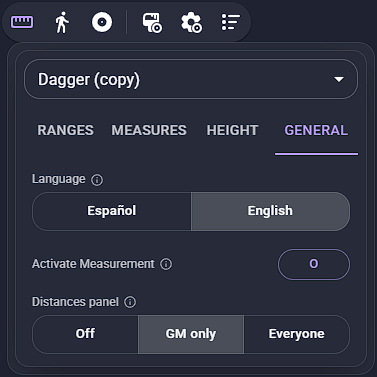
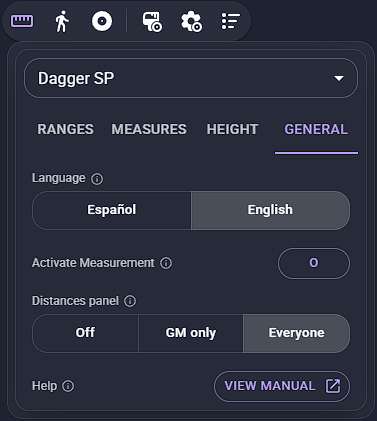
Help button in the General tab opens the README (1.2.1)

diff --git a/src/settings/GeneralTab.tsx b/src/settings/GeneralTab.tsx
@@ -1,4 +1,6 @@
+import Button from "@mui/material/Button";
 import Stack from "@mui/material/Stack";
+import OpenInNewRounded from "@mui/icons-material/OpenInNewRounded";
 import { FieldLabel } from "./FieldLabel";
 import { HotkeyRecorder } from "./HotkeyRecorder";
 import { ChoiceGroup, SECTION_GAP } from "./controls";
@@ -7,7 +9,9 @@ import { useTranslation } from "../i18n/useTranslation";
 import type { Language } from "../i18n/language";
 import { groundHotkey, type DistancePanelAccess, type GlobalSettings } from "./globalSettings";
 
-/** Room-wide basics: language, the tool's own shortcut, and who gets the Distancias panel. */
+const README_URL = "https://github.com/nachoijp/Rising-Ranges#readme";
+
+/** Room-wide basics: language, the tool's own shortcut, who gets the Distancias panel, and a way back to the manual. */
 export function GeneralTab({
   settings,
   onChangeSettings,
@@ -58,6 +62,25 @@ export function GeneralTab({
           { value: "everyone", label: t("settings.global.distancePanelEveryone") },
         ]}
       />
+
+      <Stack direction="row" alignItems="center" gap={1} sx={{ px: 1 }}>
+        <Stack sx={{ flexGrow: 1 }}>
+          <FieldLabel id="help-label" tooltip={t("settings.general.helpTooltip")}>
+            {t("settings.general.help")}
+          </FieldLabel>
+        </Stack>
+        <Button
+          variant="outlined"
+          size="small"
+          href={README_URL}
+          target="_blank"
+          rel="noopener noreferrer"
+          endIcon={<OpenInNewRounded fontSize="small" />}
+          aria-describedby="help-label"
+        >
+          {t("settings.general.helpOpen")}
+        </Button>
+      </Stack>
     </Stack>
   );
 }

diff --git a/src/i18n/strings/en.ts b/src/i18n/strings/en.ts
@@ -103,6 +103,9 @@ const en: Record<TranslationKey, string> = {
   "settings.global.distancePanelOff": "Off",
   "settings.global.distancePanelGm": "GM only",
   "settings.global.distancePanelEveryone": "Everyone",
+  "settings.general.help": "Help",
+  "settings.general.helpTooltip": "Opens the Rising Ranges manual (the README on GitHub) in a new tab.",
+  "settings.general.helpOpen": "View manual",
 
   "settings.tab.mapa": "Measures",
   "settings.tab.altura": "Height",

diff --git a/src/i18n/strings/es.ts b/src/i18n/strings/es.ts
@@ -100,6 +100,9 @@ const es = {
   "settings.global.distancePanelOff": "Apagado",
   "settings.global.distancePanelGm": "Solo GM",
   "settings.global.distancePanelEveryone": "Todos",
+  "settings.general.help": "Ayuda",
+  "settings.general.helpTooltip": "Abre el manual de Rising Ranges (el README en GitHub) en una pestaña nueva.",
+  "settings.general.helpOpen": "Ver manual",
 
   "settings.tab.mapa": "Medidas",
   "settings.tab.altura": "Altura",

diff --git a/README.md b/README.md
@@ -62,7 +62,7 @@ Pick or select a token to list every other one with its Range and its horizontal
 
 ![General settings](docs/screenshots/general-tab.png)
 
-The room's language, the key that activates Measurement, and who gets the Distances panel. Every setting applies right away — no reload needed — and their defaults keep the extension looking the way it always has until you change them.
+The room's language, the key that activates Measurement, who gets the Distances panel, and a Help button that opens this manual. Every setting applies right away — no reload needed — and their defaults keep the extension looking the way it always has until you change them.
 
 ## Color-blind themes
 

diff --git a/docs/store.md b/docs/store.md
@@ -86,7 +86,8 @@ handle.
 
 Set the room's language and hotkeys, and toggle whole feature groups on or
 off — including stripping the extension back to plain range-rings with no
-readings or height tracking. Every setting applies right away.
+readings or height tracking. Every setting applies right away, and a Help
+button in the General tab brings you back to the full manual.
 
 ![General settings](https://raw.githubusercontent.com/nachoijp/Rising-Ranges/main/docs/screenshots/general-tab.png)
 
